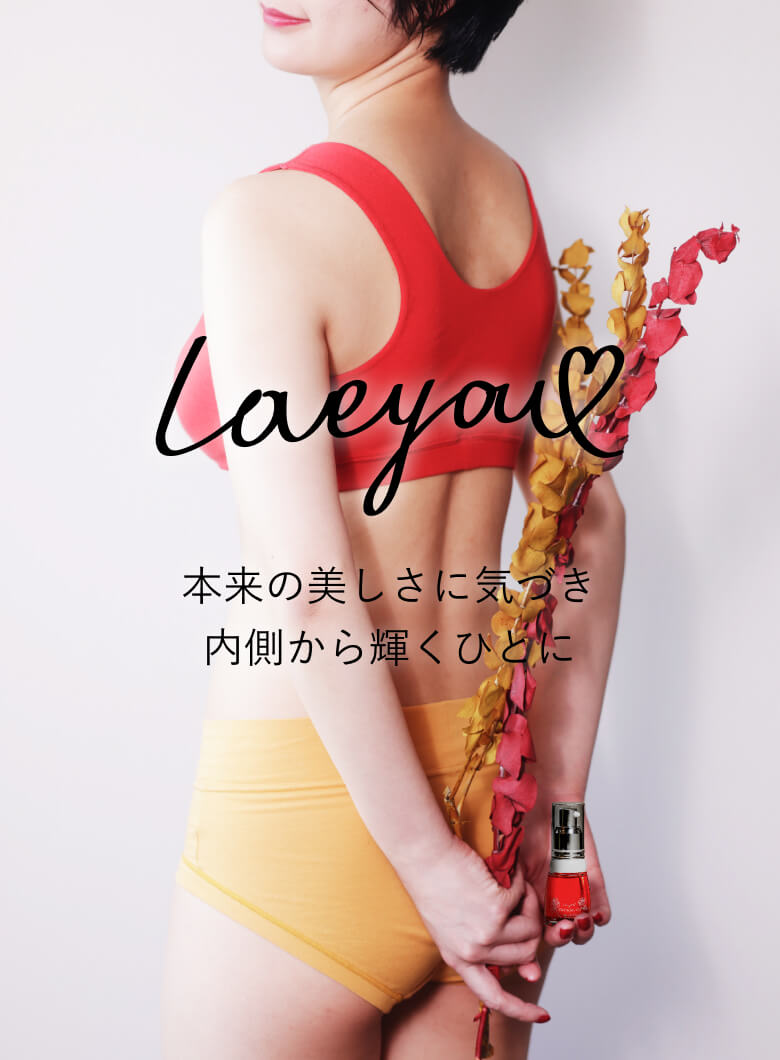
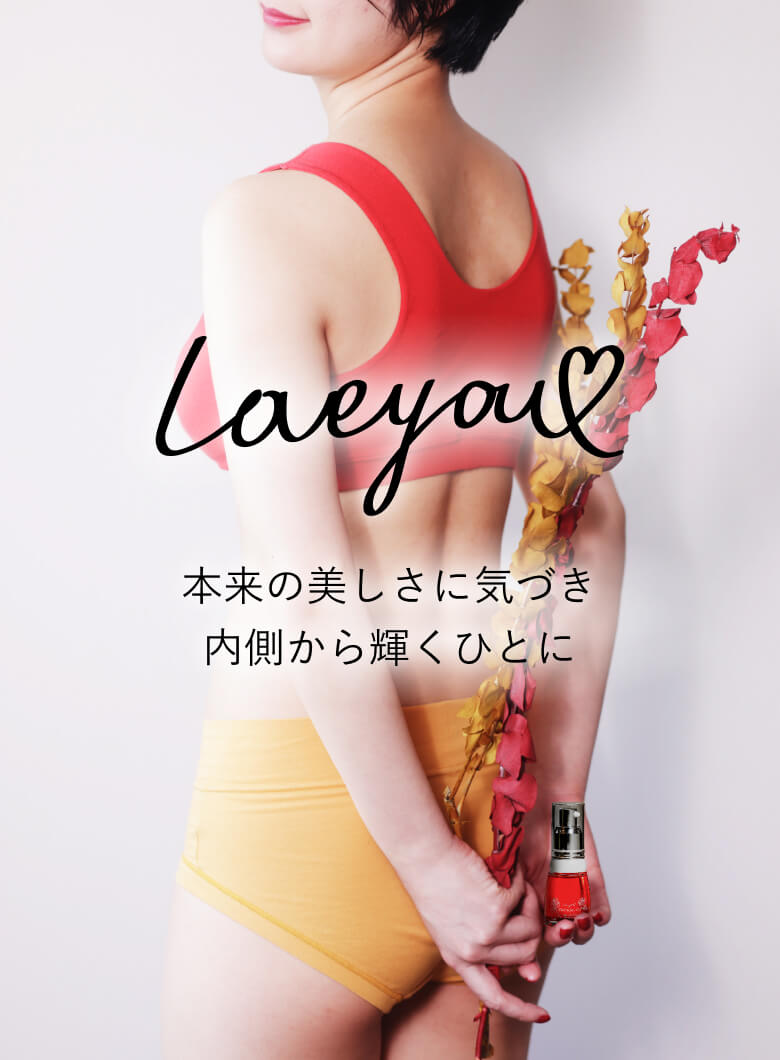
Address review feedback: Replace SP images and revise text

Changed region(s): [[0.3692, 0.2802, 0.8615, 0.467], [0.3692, 0.4981, 0.8, 0.6849], [0.2154, 0.3425, 0.3077, 0.4358]]

diff --git a/index.html b/index.html
@@ -147,10 +147,11 @@
                 <div class="col-md-6 col-xs-12">
                     <h3>こんな方におすすめ</h3>
                     <p class="min-height-120 margin-bottom-60 match">・これからこどもを迎える女性の体・心づくりをしたい方<br/>
-                        ・生理痛やPMS、更年期障害など女性特有の症状に悩まされている方<br/>
-                        ・乳がん、子宮がんの予防を考えている方 ・デリケートゾーンやバストに潤い<br/>
-                        ・ハリを与えたい方<br/>
-                        ・繊細な部分には質の良いものを使いたい方 ・肌の弱い方</p>
+                        ・女性特有のリズムに関心のある方<br/>
+                        ・日々の健康維持に興味がある方<br/>
+                        ・デリケートゾーンやバストの保湿を考えている方<br/>
+                        ・繊細な部分に質の良いものを選びたい方<br/>
+                        ・敏感肌の方</p>
                     <img src="./image/products_bdoil03.jpg" class="img-fluid">
                 </div>
             </div>
@@ -164,7 +165,7 @@
                 <h3>オーガニックコットンブラ＆ショーツ</h3>
                 <p class="sm-text-left margin-bottom-115">元々薬剤師として女性の健康や美容に長く携わっているので、<br class="sp-hide">女性の悩みを解決してあげたいという想いから作った下着です。</p>
                 <div class="sm-display-none"><img src="./image/products_brashorts_01.jpg" class="img-fluid products-image"></div>
-                <div class="sm-display-show"><img src="./image/loveyou_products_SP.jpg" class="img-fluid products-image"></div>
+                <div class="sm-display-show"><img src="./image/products_brashorts_01_sp.jpg" class="img-fluid products-image"></div>
             </div>
             <div class="row margin-bottom-115">
                 <div class="col-md-6 col-xs-12 sm-margin-bottom-50">
